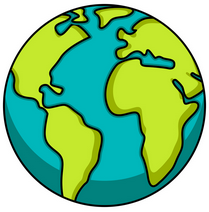
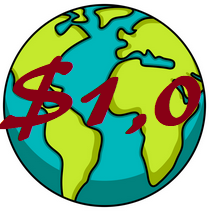
FINISHED - took out debug statements, Header Bootstraped, made Earth image be more monified symbol.

Changed region(s): [[0.0, 0.2547, 0.5742, 0.6792], [0.7177, 0.3396, 0.9761, 0.5943], [0.6029, 0.5377, 0.7177, 0.6509]]

diff --git a/src/components/ExpensesMainContent.js b/src/components/ExpensesMainContent.js
@@ -1,13 +1,8 @@
 import React from 'react';
 
-// import Button from 'react-bootstrap/Button'
-import { Button, Alert, Card, Col, Container, Form, Row } from 'react-bootstrap'
+import { Button, Card, Col, Form, Row, Table } from 'react-bootstrap'
 
 import 'bootstrap/dist/css/bootstrap.min.css'
-
-/*
-import expensesDataStorageTest from './expensesData.js'
-*/
 
 let initialExpensesState = {
     id: `${Date.now()}`,
@@ -26,13 +21,11 @@ export default function ExpensesMainContent() {
     const [allExpensesArray, setAllExpensesArray] = React.useState(JSON.parse(localStorage.getItem('expensesArrayStorage')) || [])
 
     React.useEffect(() => {
-            console.log("allExpenseArray changed");
             localStorage.setItem('expensesArrayStorage', JSON.stringify(allExpensesArray))
         }, [allExpensesArray]
     );
 
     React.useEffect(() => {
-            console.log("allExpenseArray changed");
             localStorage.setItem('expensesStateStorage', JSON.stringify(expensesState))
         }, [expensesState]
     );
@@ -44,7 +37,7 @@ export default function ExpensesMainContent() {
     function convert_to_float(b) {
         // Type conversion of string to float
         var floatValue = +(b);
-        // Return float value
+
         return floatValue;
     }
 
@@ -88,7 +81,6 @@ export default function ExpensesMainContent() {
  
     function addExpense(event) {
 
-        console.log("        --->>> addExpense Called from onclick")
         setAllExpensesArray(prevAllExpensesArray => {
             return [
             ...prevAllExpensesArray,
@@ -108,7 +100,6 @@ export default function ExpensesMainContent() {
             return {
                 ...prevExpenseState,
                 id: `${Date.now()}`,
-                // dateSpent: Date("1/1/2000"),
                 amount: 0.0,
                 expenseVendor: "",
                 expenseDescription: "",
@@ -130,43 +121,40 @@ export default function ExpensesMainContent() {
 
     const expensesElementsToRender = allExpensesArray.map((expense) => {
         return (
-            <Container fluid 
-                key={expense.id}
-            >
-                <Row>
-                    <Col>
-                        <Row >
-                            <Col>On {expense.dateSpent}</Col>
-                            <Col>{formatToStringMoneyAmount(expense.amount)}</Col>
-                        </Row >
-                        <Row >
-                            <Col xs={6}>Where: {expense.expenseVendor}</Col>
-                            <Col xl={3} color={3434}>Desc: {expense.expenseDescription}</Col>
-                        </Row>
-                    </Col>
-                    <Col>
-                        <Button
-                            onClick={() => deleteExpense(expense.id)}
-                            key={expense.id}                 
-                            >Delete This Expense<br />{formatToStringMoneyAmount(expense.amount).slice(0,11)}</Button>
-                    </Col>
-                </Row>
-            </Container>
+            <Row key={expense.id} className="py-1" >
+                <Col className="px-5" xs={8} >
+                <Card body className="mx-1 my-1" border="success">
+                    <Row className="text-success py-1" >
+                        <Col>On {expense.dateSpent}</Col>
+                        <Col>{formatToStringMoneyAmount(expense.amount)}</Col>
+                    </Row >
+                    <Row >
+                        <Col 
+                        className="text-success py-1">Where: {expense.expenseVendor}</Col>
+                        <Col xl={4} 
+                        className="text-primary py-1">Desc: {expense.expenseDescription}</Col>
+                    </Row>
+                    </Card>
+                </Col>
+                <Col className="pt-5" >
+                    <Button
+                        onClick={() => deleteExpense(expense.id)}
+                        key={expense.id}
+                        variant="outline-danger"
+                        className=""
+                        >Delete This Expense<br />{formatToStringMoneyAmount(expense.amount).slice(0,11)}
+                    </Button>
+                </Col>
+            </Row>
         )
     })
-
-    function handleSubmit(event) {
-
-        console.log("        --->>> handleSubmit Called from form submission");
-
-        event.preventDefault()  // if this is commented out it clears all the form data and puts the data into an HTML URL in the browser
-
-    }
     
-    // <Card.Img src="https://picsum.photos/300/10" />
     return (
-        <Container >
-            <Form noValidate className="expenses--input--form" onSubmit={handleSubmit}>
+        <Card body className="mx-1 my-1" border="success">
+            <Form 
+                noValidate 
+                className="mx-2 p-2 border"
+            >
                 <Row>
                     <Col md>
                         <Form.Group controlId="formDate">
@@ -226,18 +214,19 @@ export default function ExpensesMainContent() {
                 
                 <Button
                     onClick={addExpense}
-                    variant="outline-primary"
-                    className="mx-5"
+                    size="sm"
+                    variant="primary"
+                    className="mx-5 p-2 my-1"
                     spacing="15"
                 >
                     Add Your Expense $ to the list ⇥
                 </Button>
 
             </Form>
-            <Card>
+            <Table striped responsive="md" variant='dark' border={2} className="px-1">
                 {expensesElementsToRender}
-            </Card>
+            </Table>
 
-        </Container>
+        </Card>
     )
 }

diff --git a/src/App.js b/src/App.js
@@ -3,25 +3,15 @@ import './components/expensesApp.css';
 import ExpensesHeader from './components/ExpensesHeader.js'
 import ExpensesMainContent from './components/ExpensesMainContent.js'
 
-// import background from "./images/NC_Home.JPG";
-// style={{ backgroundImage: `url("https://picsum.photos/300/10")` }}
-// style={{ backgroundImage: `url(${background})` }}
+import { Card } from 'react-bootstrap'
 
 import React from 'react';
 
-/*
-<div className="app--main"
-            style={{ backgroundImage: `url(${background})` }}
-      >
-*/
-
 export default function App() {
   return (
-    <div className="app--main"
-      style={{ backgroundImage: `url("https://picsum.photos/300/10")` }}
-    >
+    <Card border="info">
       <ExpensesHeader />
       <ExpensesMainContent />
-    </div>
+    </Card>
   )
 }

diff --git a/src/components/ExpensesHeader.js b/src/components/ExpensesHeader.js
@@ -1,17 +1,18 @@
+import { Card } from 'react-bootstrap'
 
 import earth_image from "../images/earth_image.png";
 
 export default function ExpensesHeader() {
     return (
-    <div>
+    <Card >
         <header className="header">
             <img 
             src={earth_image} 
             className="header--image"
             />
-            <h2 className="header--title">Expense Tracker App Started 3/02/2022</h2>
-            <h4 className="header--project">React Course - Project 3 @ 12:21 pm</h4>
+            <h2 className="header--title">Expense Tracker App</h2>
+            <h4 className="header--project">SDMM Project 4 Version 3/02/22</h4>
         </header>
-    </div>
+    </Card>
     )
   }
